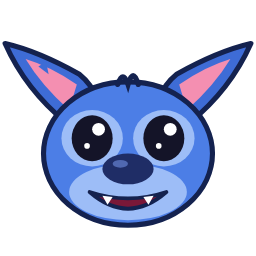
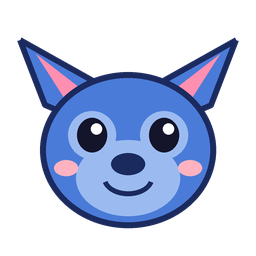
Friendlier Stitch (no fangs) and six new Disney-style characters
Claude-Session: https://claude.ai/code/session_011vxMjYfbfPCS2gvhCiX83C

Changed region(s): [[0.0, 0.125, 1.0, 0.9062]]

diff --git a/src/constants/shop.ts b/src/constants/shop.ts
@@ -50,6 +50,12 @@ export const SHOP_ITEMS: ShopItem[] = [
   { id: 'avatar-crown', category: 'avatar', name: 'Royal', emoji: '👑', price: 150 },
   { id: 'avatar-bluey', category: 'avatar', name: 'Bluey', emoji: '@bluey', price: 120 },
   { id: 'avatar-stitch', category: 'avatar', name: 'Stitch', emoji: '@stitch', price: 120 },
+  { id: 'avatar-mickey', category: 'avatar', name: 'Mickey', emoji: '@mickey', price: 120 },
+  { id: 'avatar-minnie', category: 'avatar', name: 'Minnie', emoji: '@minnie', price: 120 },
+  { id: 'avatar-olaf', category: 'avatar', name: 'Olaf', emoji: '@olaf', price: 120 },
+  { id: 'avatar-pooh', category: 'avatar', name: 'Pooh', emoji: '@pooh', price: 120 },
+  { id: 'avatar-simba', category: 'avatar', name: 'Simba', emoji: '@simba', price: 120 },
+  { id: 'avatar-nemo', category: 'avatar', name: 'Nemo', emoji: '@nemo', price: 120 },
 
   { id: 'bg-cream', category: 'background', name: 'Sunny Cream', color: '#FFF8E7', price: 0 },
   { id: 'bg-sky', category: 'background', name: 'Sky', color: '#E3F2FD', price: 40 },
@@ -308,6 +314,78 @@ export const SHOP_ITEMS: ShopItem[] = [
       treat: '🍰',
       cheers: ['Ohana!', 'Aloha, smarty!', 'Super good!'],
       comforts: ['No one gets left behind!', 'Try again!', 'Still good!'],
+    },
+  },
+  {
+    id: 'buddy-mickey',
+    category: 'companion',
+    name: 'Mickey',
+    price: 200,
+    companion: {
+      emoji: '@mickey',
+      treat: '🧀',
+      cheers: ['Oh boy!', 'Hot dog!', 'Ha-ha, you did it!'],
+      comforts: ['Oh, gosh!', 'Try again!', 'Keep going!'],
+    },
+  },
+  {
+    id: 'buddy-minnie',
+    category: 'companion',
+    name: 'Minnie',
+    price: 200,
+    companion: {
+      emoji: '@minnie',
+      treat: '🍰',
+      cheers: ['Hooray!', 'So sweet!', 'Bow-tiful work!'],
+      comforts: ["That's okay!", 'Try again!', 'You can do it!'],
+    },
+  },
+  {
+    id: 'buddy-olaf',
+    category: 'companion',
+    name: 'Olaf',
+    price: 200,
+    companion: {
+      emoji: '@olaf',
+      treat: '🍦',
+      cheers: ['I love it!', 'Warm hugs!', 'Ice work!'],
+      comforts: ["That's okay!", 'Try again!', 'Keep going!'],
+    },
+  },
+  {
+    id: 'buddy-pooh',
+    category: 'companion',
+    name: 'Pooh',
+    price: 200,
+    companion: {
+      emoji: '@pooh',
+      treat: '🍯',
+      cheers: ['Oh, bother... no, hooray!', 'Hunny good!', 'Think, think, yes!'],
+      comforts: ['Oh, bother!', 'Try again!', 'Nice and slow!'],
+    },
+  },
+  {
+    id: 'buddy-simba',
+    category: 'companion',
+    name: 'Simba',
+    price: 200,
+    companion: {
+      emoji: '@simba',
+      treat: '🍖',
+      cheers: ['Roar-some!', 'Hakuna Matata!', 'King of math!'],
+      comforts: ['No worries!', 'Try again!', 'Brave and bold!'],
+    },
+  },
+  {
+    id: 'buddy-nemo',
+    category: 'companion',
+    name: 'Nemo',
+    price: 200,
+    companion: {
+      emoji: '@nemo',
+      treat: '🪱',
+      cheers: ['Just keep swimming!', 'Splash!', 'Fin-tastic!'],
+      comforts: ['Keep swimming!', 'Try again!', 'You got this!'],
     },
   },
   // People, drawn in their own look (PEOPLE in constants/wardrobe) and dressed like the animal buddies.

diff --git a/src/constants/art.ts b/src/constants/art.ts
@@ -14,6 +14,12 @@ interface Art {
 export const ART: Record<string, Art> = {
   '@bluey': { source: require('../../assets/art/bluey.png'), standIn: '🐶' },
   '@stitch': { source: require('../../assets/art/stitch.png'), standIn: '👽' },
+  '@mickey': { source: require('../../assets/art/mickey.png'), standIn: '🐭' },
+  '@minnie': { source: require('../../assets/art/minnie.png'), standIn: '🎀' },
+  '@olaf': { source: require('../../assets/art/olaf.png'), standIn: '⛄' },
+  '@pooh': { source: require('../../assets/art/pooh.png'), standIn: '🐻' },
+  '@simba': { source: require('../../assets/art/simba.png'), standIn: '🦁' },
+  '@nemo': { source: require('../../assets/art/nemo.png'), standIn: '🐠' },
 };
 
 export function artFor(value: string): Art | undefined {

diff --git a/src/constants/wardrobe.ts b/src/constants/wardrobe.ts
@@ -96,6 +96,12 @@ export const BODY_COLORS: Record<string, BodyColors> = {
   'buddy-dragon': { fur: '#4CAF50', belly: '#FFF59D' },
   'buddy-bluey': { fur: '#5C9BE0', belly: '#CFE3F7' },
   'buddy-stitch': { fur: '#4A7BD8', belly: '#BBD3F5' },
+  'buddy-mickey': { fur: '#2B2B3D', belly: '#FFD9B5' },
+  'buddy-minnie': { fur: '#2B2B3D', belly: '#FFD9B5' },
+  'buddy-olaf': { fur: '#F5FAFF', belly: '#FFFFFF' },
+  'buddy-pooh': { fur: '#E8A33D', belly: '#F5C26B' },
+  'buddy-simba': { fur: '#E8B26A', belly: '#FFF1D6' },
+  'buddy-nemo': { fur: '#FB8C00', belly: '#FFFFFF' },
 };
 
 export const DEFAULT_BODY: BodyColors = { fur: '#C8A27C', belly: '#F1E3D3' };

diff --git a/assets/art/make_art.py b/assets/art/make_art.py
@@ -1,0 +1,154 @@
+"""Draws the character faces in this folder (own fan-style drawings, no official art).
+Run: python3 assets/art/make_art.py  (needs Pillow). Output: 256x256 PNGs."""
+from PIL import Image, ImageDraw
+import os
+
+S = 4            # supersample
+N = 256 * S
+OUT = os.path.dirname(os.path.abspath(__file__))
+INK = '#1B2A5E'
+
+def new():
+    im = Image.new('RGBA', (N, N), (0, 0, 0, 0))
+    return im, ImageDraw.Draw(im)
+
+def e(d, cx, cy, rx, ry, fill, ink=INK, w=6):
+    d.ellipse([(cx - rx) * S, (cy - ry) * S, (cx + rx) * S, (cy + ry) * S], fill=fill, outline=ink, width=w * S)
+
+def poly(d, pts, fill, ink=INK, w=6):
+    p = [(x * S, y * S) for x, y in pts]
+    d.polygon(p, fill=fill)
+    d.line(p + [p[0]], fill=ink, width=w * S, joint='curve')
+
+def eyes(d, lx, rx, y, r=11, ink=INK):
+    for x in (lx, rx):
+        e(d, x, y, r, r * 1.15, '#14142B', ink, 0)
+        e(d, x + r * .3, y - r * .4, r * .38, r * .38, 'white', ink, 0)
+
+def smile(d, cx, cy, w, h, ink=INK, lw=5):
+    d.arc([(cx - w) * S, (cy - h) * S, (cx + w) * S, (cy + h) * S], 15, 165, fill=ink, width=lw * S)
+
+def blush(d, lx, rx, y):
+    for x in (lx, rx):
+        e(d, x, y, 12, 8, '#FFB3C1', '#FFB3C1', 0)
+
+def save(im, name):
+    im.resize((256, 256), Image.LANCZOS).save(os.path.join(OUT, name + '.png'))
+
+def stitch():
+    im, d = new()
+    poly(d, [(20, 40), (95, 82), (80, 120), (45, 105)], '#4A7BD8')
+    poly(d, [(236, 40), (161, 82), (176, 120), (211, 105)], '#4A7BD8')
+    poly(d, [(36, 54), (80, 88), (68, 104)], '#FF8FB1', w=0)
+    poly(d, [(220, 54), (176, 88), (188, 104)], '#FF8FB1', w=0)
+    e(d, 128, 150, 88, 78, '#4A7BD8')
+    e(d, 128, 178, 52, 38, '#9BBBF0', '#9BBBF0', 0)
+    e(d, 92, 135, 24, 24, '#9BBBF0', '#9BBBF0', 0)
+    e(d, 164, 135, 24, 24, '#9BBBF0', '#9BBBF0', 0)
+    eyes(d, 92, 164, 135, 15)
+    e(d, 128, 164, 17, 11, INK, INK, 0)
+    smile(d, 128, 178, 26, 18)
+    blush(d, 66, 190, 168)
+    save(im, 'stitch')
+
+def mickey():
+    im, d = new()
+    e(d, 60, 52, 38, 38, '#222233', '#111122')
+    e(d, 196, 52, 38, 38, '#222233', '#111122')
+    e(d, 128, 150, 76, 72, '#222233', '#111122')
+    e(d, 128, 164, 60, 52, '#FFD9B5', '#111122', 5)
+    e(d, 106, 128, 20, 28, '#FFFFFF', '#111122', 4)
+    e(d, 150, 128, 20, 28, '#FFFFFF', '#111122', 4)
+    for x in (110, 146):
+        e(d, x, 134, 7, 11, '#14142B', '#14142B', 0)
+    e(d, 128, 160, 14, 10, '#222233', '#111122', 0)
+    smile(d, 128, 172, 30, 22, '#111122')
+    blush(d, 82, 174, 178)
+    save(im, 'mickey')
+
+def minnie():
+    im, d = new()
+    e(d, 60, 52, 38, 38, '#222233', '#111122')
+    e(d, 196, 52, 38, 38, '#222233', '#111122')
+    e(d, 128, 156, 76, 70, '#222233', '#111122')
+    e(d, 128, 168, 60, 50, '#FFD9B5', '#111122', 5)
+    e(d, 106, 134, 18, 26, '#FFFFFF', '#111122', 4)
+    e(d, 150, 134, 18, 26, '#FFFFFF', '#111122', 4)
+    for x in (109, 147):
+        e(d, x, 140, 7, 11, '#14142B', '#14142B', 0)
+    e(d, 128, 164, 14, 10, '#222233', '#111122', 0)
+    smile(d, 128, 176, 28, 20, '#111122')
+    blush(d, 82, 174, 180)
+    # red bow with white dots
+    poly(d, [(128, 66), (84, 38), (84, 94)], '#E53935', '#8E1B1B', 5)
+    poly(d, [(128, 66), (172, 38), (172, 94)], '#E53935', '#8E1B1B', 5)
+    e(d, 128, 66, 13, 13, '#E53935', '#8E1B1B', 5)
+    for x, y in ((104, 62), (152, 62)):
+        e(d, x, y, 5, 5, 'white', 'white', 0)
+    save(im, 'minnie')
+
+def olaf():
+    im, d = new()
+    e(d, 128, 150, 82, 78, '#FFFFFF', '#5B7FA6')
+    # hair twigs
+    for x in (112, 128, 144):
+        d.line([(x * S, 76 * S), ((x + (x - 128) * .6) * S, 46 * S)], fill='#5D4037', width=5 * S)
+    e(d, 96, 126, 13, 15, '#14142B', '#14142B', 0)
+    e(d, 160, 126, 13, 15, '#14142B', '#14142B', 0)
+    e(d, 99, 121, 5, 5, 'white', 'white', 0)
+    e(d, 163, 121, 5, 5, 'white', 'white', 0)
+    for x, dx in ((96, -1), (160, 1)):
+        d.line([((x - 14) * S, 104 * S), ((x + 14) * S, 100 * S)], fill='#5B7FA6', width=4 * S)
+    poly(d, [(128, 134), (128, 160), (172, 158)], '#FB8C00', '#B55A00', 5)   # carrot nose
+    d.chord([86 * S, 150 * S, 170 * S, 214 * S], 0, 180, fill='#FFFFFF', outline='#5B7FA6', width=5 * S)
+    d.chord([96 * S, 160 * S, 160 * S, 208 * S], 0, 180, fill='#F48FB1', outline='#F48FB1', width=0)
+    blush(d, 70, 186, 160)
+    save(im, 'olaf')
+
+def pooh():
+    im, d = new()
+    e(d, 66, 62, 24, 24, '#E8A33D', '#7A4B12'); e(d, 190, 62, 24, 24, '#E8A33D', '#7A4B12')
+    e(d, 66, 64, 11, 11, '#F5C26B', '#F5C26B', 0); e(d, 190, 64, 11, 11, '#F5C26B', '#F5C26B', 0)
+    e(d, 128, 142, 90, 80, '#E8A33D', '#7A4B12')
+    e(d, 128, 172, 46, 34, '#F5C26B', '#F5C26B', 0)
+    e(d, 96, 126, 8, 9, '#14142B', '#14142B', 0); e(d, 160, 126, 8, 9, '#14142B', '#14142B', 0)
+    e(d, 99, 123, 3, 3, 'white', 'white', 0); e(d, 163, 123, 3, 3, 'white', 'white', 0)
+    e(d, 128, 156, 15, 11, '#3E2723', '#3E2723', 0)
+    smile(d, 128, 168, 20, 16, '#5D3A12', 4)
+    blush(d, 72, 184, 164)
+    # red shirt collar
+    d.chord([54 * S, 190 * S, 202 * S, 244 * S], 180, 360, fill='#E53935', outline='#8E1B1B', width=5 * S)
+    save(im, 'pooh')
+
+def simba():
+    im, d = new()
+    e(d, 128, 142, 100, 96, '#C9772B', '#6B3A0F')     # mane
+    e(d, 62, 70, 22, 22, '#E8B26A', '#6B3A0F'); e(d, 194, 70, 22, 22, '#E8B26A', '#6B3A0F')
+    e(d, 128, 150, 64, 60, '#E8B26A', '#6B3A0F')
+    e(d, 128, 176, 38, 28, '#FFF1D6', '#FFF1D6', 0)
+    e(d, 104, 134, 9, 11, '#14142B', '#14142B', 0); e(d, 152, 134, 9, 11, '#14142B', '#14142B', 0)
+    e(d, 107, 130, 3.5, 3.5, 'white', 'white', 0); e(d, 155, 130, 3.5, 3.5, 'white', 'white', 0)
+    poly(d, [(116, 158), (140, 158), (128, 172)], '#6D3B2B', '#3E1F14', 3)
+    smile(d, 114, 176, 14, 11, '#3E1F14', 4); smile(d, 142, 176, 14, 11, '#3E1F14', 4)
+    blush(d, 84, 172, 168)
+    save(im, 'simba')
+
+def nemo():
+    im, d = new()
+    poly(d, [(14, 96), (74, 128), (14, 178)], '#FB8C00', '#7A3B00')           # tail fin
+    poly(d, [(110, 50), (150, 20), (178, 62)], '#FB8C00', '#7A3B00')          # top fin
+    e(d, 140, 126, 98, 70, '#FB8C00', '#7A3B00')
+    for cx, w in ((100, 14), (156, 12)):                                          # white stripes
+        d.rectangle([(cx - w) * S, 70 * S, (cx + w) * S, 184 * S], fill=None)
+    d.chord([86 * S, 58 * S, 122 * S, 196 * S], 90, 270, fill=None)
+    for x0, x1 in ((92, 112), (148, 166)):
+        d.polygon([(x0 * S, 64 * S), (x1 * S, 64 * S), ((x1 + 2) * S, 190 * S), ((x0 - 2) * S, 190 * S)], fill='#FFFFFF')
+    d.ellipse([(140 - 98) * S, (126 - 70) * S, (140 + 98) * S, (126 + 70) * S], outline='#7A3B00', width=6 * S)
+    e(d, 190, 114, 20, 20, '#FFFFFF', '#14142B', 4)
+    e(d, 194, 116, 10, 10, '#14142B', '#14142B', 0)
+    e(d, 197, 112, 3.5, 3.5, 'white', 'white', 0)
+    smile(d, 196, 150, 18, 12, '#7A3B00', 4)
+    save(im, 'nemo')
+
+for f in (stitch, mickey, minnie, olaf, pooh, simba, nemo):
+    f()
